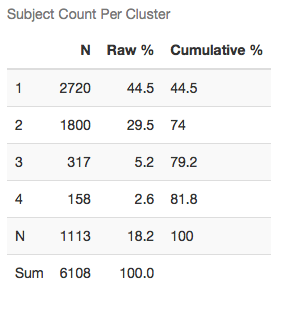
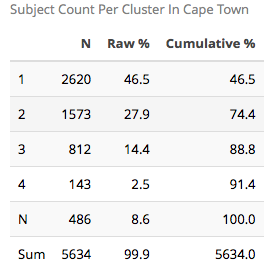
changes

diff --git a/_posts/2019-02-12-kmeans-clustering.md b/_posts/2019-02-12-kmeans-clustering.md
@@ -8,11 +8,11 @@ header:
 
 ## Data
 
-It is important to identify the drinking/smoking patterns of women during pregnancy in order to better understand the risk of possible postnatal outcomes.
+Identifying the drinking/smoking patterns of women during pregnancy isimportant in order to better understand the risk of possible postnatal outcomes.
 
-For this project, I analyzed data from the Safe Passage Study, also known as the PASS study. This is a multi-center, prospective pregnancy cohort study that collected data from women living in the Northern Plains, US and Cape Town, South Africa. Both populations are at high risk for drinking and smoking during pregnancy. The goal of the study was to investigate the role of prenatal drinking and smoking on postnatal outcomes - specifically stillbirth and SIDS.
+For this project, I analyzed data from the Safe Passage Study, also known as the PASS study. This is a multi-center, prospective pregnancy cohort study that collected data from women living in the Northern Plains, US and Cape Town, South Africa. Both populations are at high risk for drinking and smoking during pregnancy. The goal of the study was to investigate the role of prenatal drinking and smoking on postnatal outcomes - specifically child heart rate at birth, gestational age in weeks, and baby weight at birth (in pounds).
 
-Because results may differ by site, the analysis was stratified. The sample size tables for each site are included.
+Because results may differ by site, the analysis was stratified. I will focus on the Cape Town, SA site. The sample size table is included.
 
 Insert Sample size tables
 <img src="{{ site.url }}{{ site.baseurl }}/images/Table1_SA.png" alt="" class="center">
@@ -27,7 +27,7 @@ Since the women demonstrate dynamic drinking and smoking habits, the first step 
 * Total Standard Drinks Per Trimester
 * A "mood" variable made up of the women's fedinburgh, state anxiety, and trait anxiety scores
 
-It was pre-determined that the number of clusters should be 4. Prior to clustering, we wanted to establish a "non-exposed" group. Therefore, those who did not drink or smoke throughout their pregnancy were considered non-exposed and were not included in the clustering. The cut off for the fedinburgh depression variable is 13, and for state and trait anxiety variables is 40. Those below the cut off are non-exposed (i.e not depressed). I included sample code for both the clusters and the visualization of varibles per cluster. The ggplot code is the same for both the drinking and smoking variables and per site.
+It was pre-determined that the number of clusters should be 4. Prior to clustering, we wanted to establish a "non-exposed" group. Therefore, those who did not drink or smoke throughout their pregnancy were considered non-exposed and were not included in the clustering. The cut off for the fedinburgh depression variable is 13, and for state and trait anxiety variables is 40. Those below the cut off are non-exposed (i.e not depressed). There are 154 subjects missing at least one mood variable (either state_anx, trait_anx, or fedinburgh). Those subjects were removed from clustering. I included sample code for both the clusters and the visualization of variables per cluster.
 
 ```r
 cld.joint.fedinburgh <- cld3d(pass.US.completers.fedinburgh[pass.US.completers.fedinburgh$Exposure ==
@@ -36,7 +36,7 @@ cld.joint.fedinburgh <- cld3d(pass.US.completers.fedinburgh[pass.US.completers.f
 kml3d(cld.joint.fedinburgh,nbClusters = 4:9)
 ```
 
-### South Africa
+### Visualizing The Clusters
 
 ```r
 ggplot(melt(pass.US.completers.fedinburgh[,c("patid","Cluster.TotalJoint",
@@ -48,8 +48,37 @@ geom="line",size=2) +
 scale_x_discrete(labels=c("T1","T2","T3")) +
 facet_grid(. ~ Cluster.TotalJoint)
 ```
-<img src="{{ site.url }}{{ site.baseurl }}/images/kml_SA.png" alt="" class="center"> <img src="{{ site.url }}{{ site.baseurl }}/images/kml_SA2.png" alt="" class="center">
+<img src="{{ site.url }}{{ site.baseurl }}/images/kml_SA.png" alt="" class="center">
 
-### US
+<img src="{{ site.url }}{{ site.baseurl }}/images/kml_SA2.png" alt="" class="center">
 
-Insert US cluster ggplot
+<img src="{{ site.url }}{{ site.baseurl }}/images/kml_SA3.png" alt="" class="center">
+
+I have included descriptive statistics for the variables of interest stratified by cluster.
+
+<img src="{{ site.url }}{{ site.baseurl }}/images/DescStats.png" alt="" class="center">
+
+### Outcome Differences
+
+#### Visualizing
+
+I began by creating boxplots of each outcome variable, per cluster, to visually inspect the distribution and see if any major differences stand out.
+
+To reiterate, the outcome variables being analyzed are:
+
+* gestational age in weeks at birth
+* child birth weight in pounds
+* child heart rate in the third trimester
+
+
+I did ANOVA analysis to evaluate any differences in the outcome variables between the clusters. The first step is to check the homogeneity of variance between the clusters using levene's test.
+
+The null hypothesis being tested is that there is homogeneity of variance between the clusters versus the alternative that states there is no homogeneity of variance. None of the p-values were significant, and therefore we will assume homogeneity of variance.
+
+I have included sample code.
+
+```r
+library(car)
+
+leveneTest(hrmean1 ~ Cluster.TotalJoint, data = outcome_set)
+```
